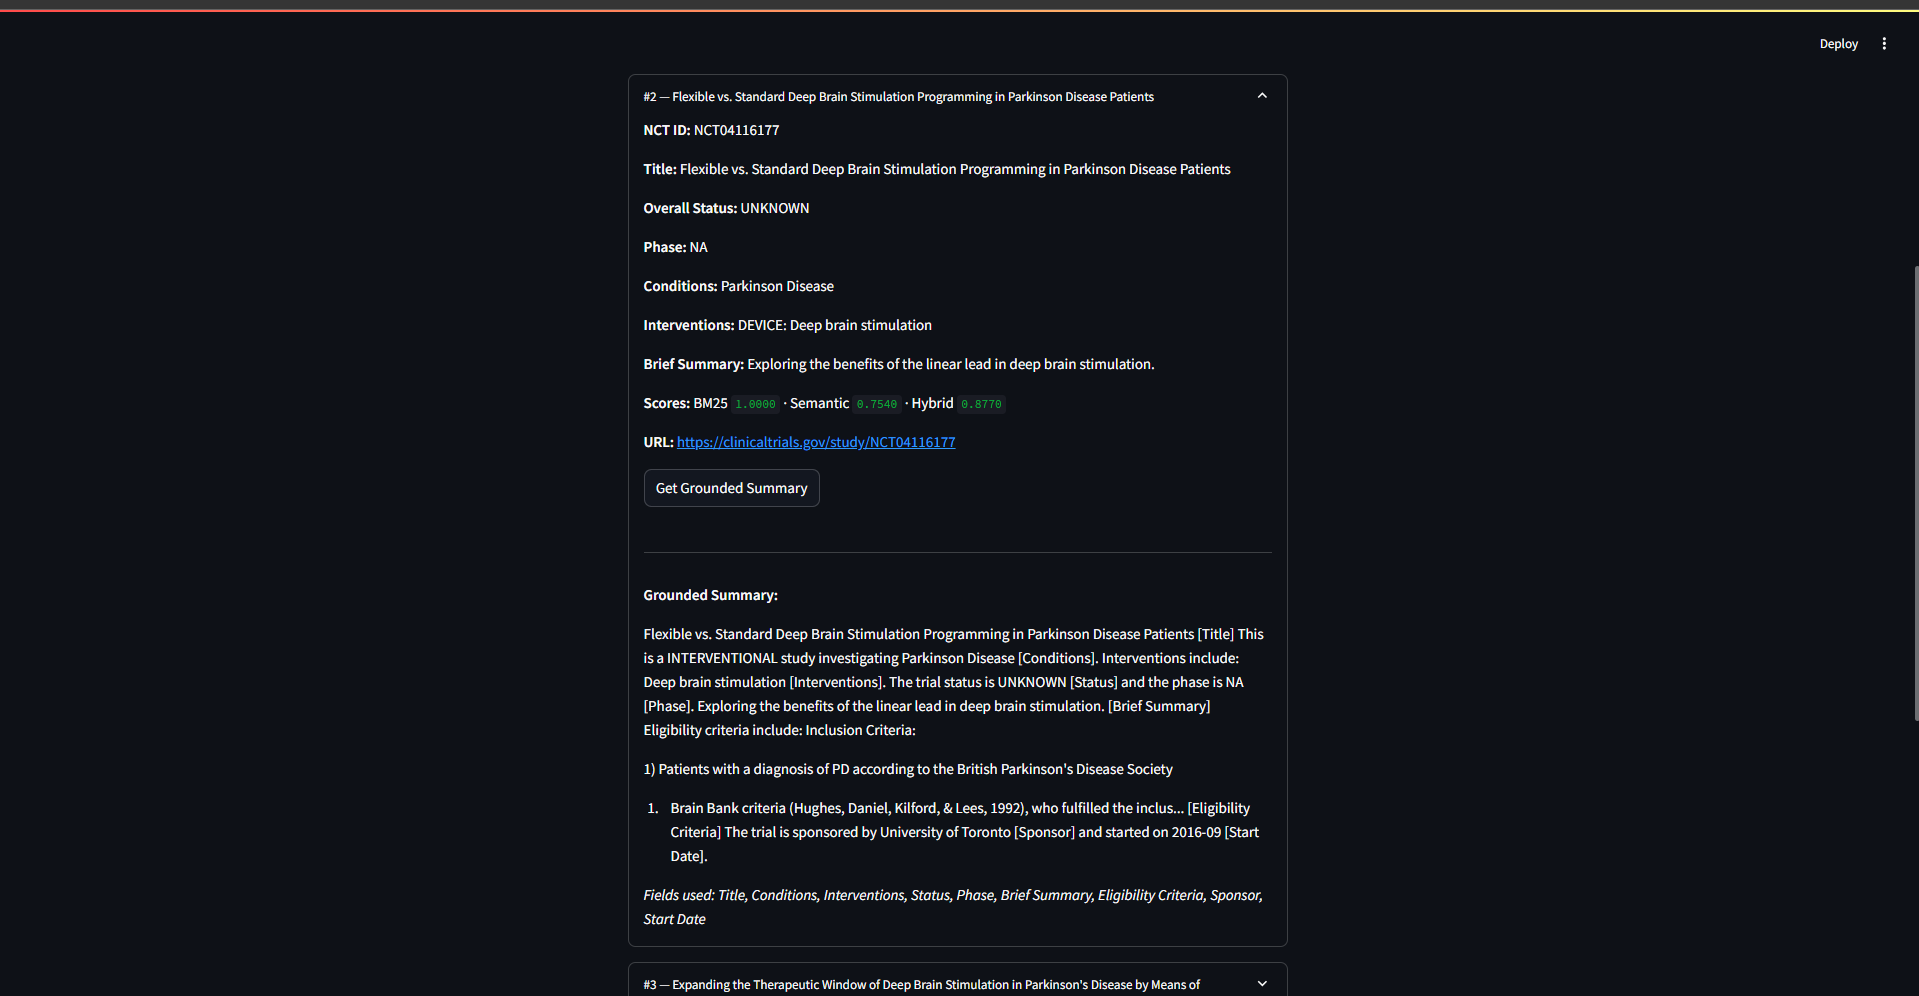
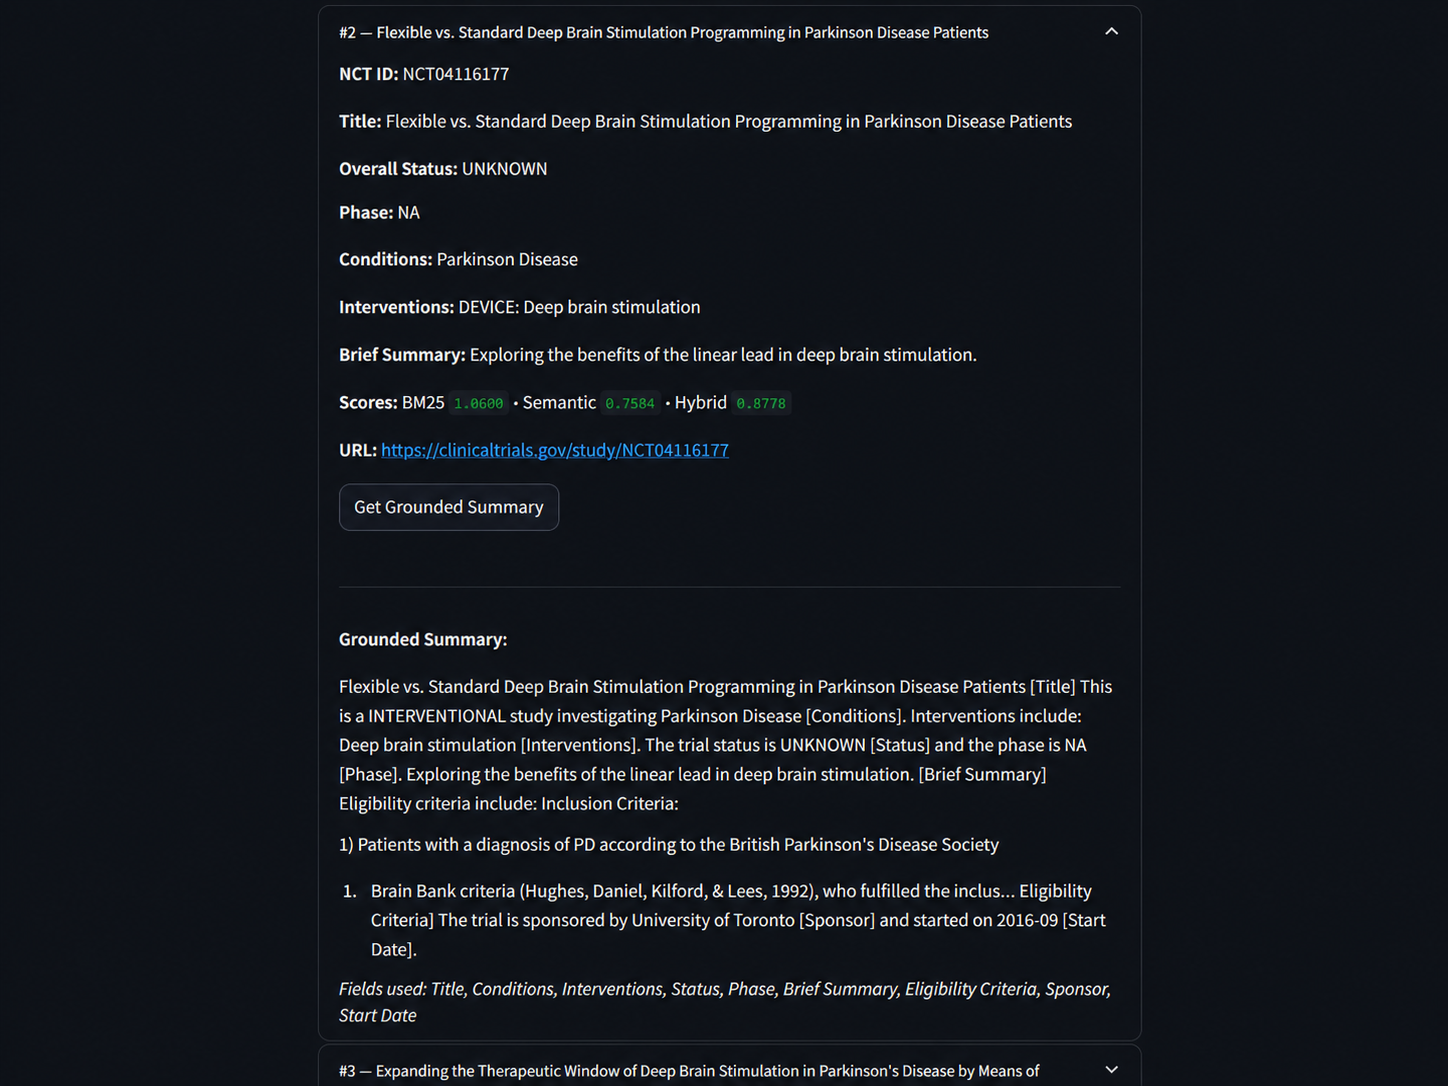
Polish README screenshots

Changed region(s): [[0.2175, 0.5602, 0.7769, 0.996], [0.0, 0.0, 1.0, 0.498], [0.9945, 0.249, 1.0, 0.7159]]

diff --git a/README.md b/README.md
@@ -46,17 +46,16 @@ A template-based summary is generated per trial on request. Retrieval quality is
 
 ## Screenshots
 
+The Streamlit UI supports filtered search, ranked results with hybrid scores, and grounded per-trial summaries.
+
 ![Streamlit search interface with optional filters](assets/screenshots/search-home.png)
-*Streamlit search interface with optional status, phase, and study type filters*
+*Search interface with optional status, phase, and study type filters*
 
 ![Search results with hybrid scores](assets/screenshots/search-results.png)
-*Search results with hybrid scores*
+*Ranked results with hybrid scores*
 
 ![Grounded summary view](assets/screenshots/grounded-summary.png)
 *Grounded summary view*
-
-![FastAPI interactive API docs](assets/screenshots/api-docs.png)
-*FastAPI interactive API docs*
 
 ---
 